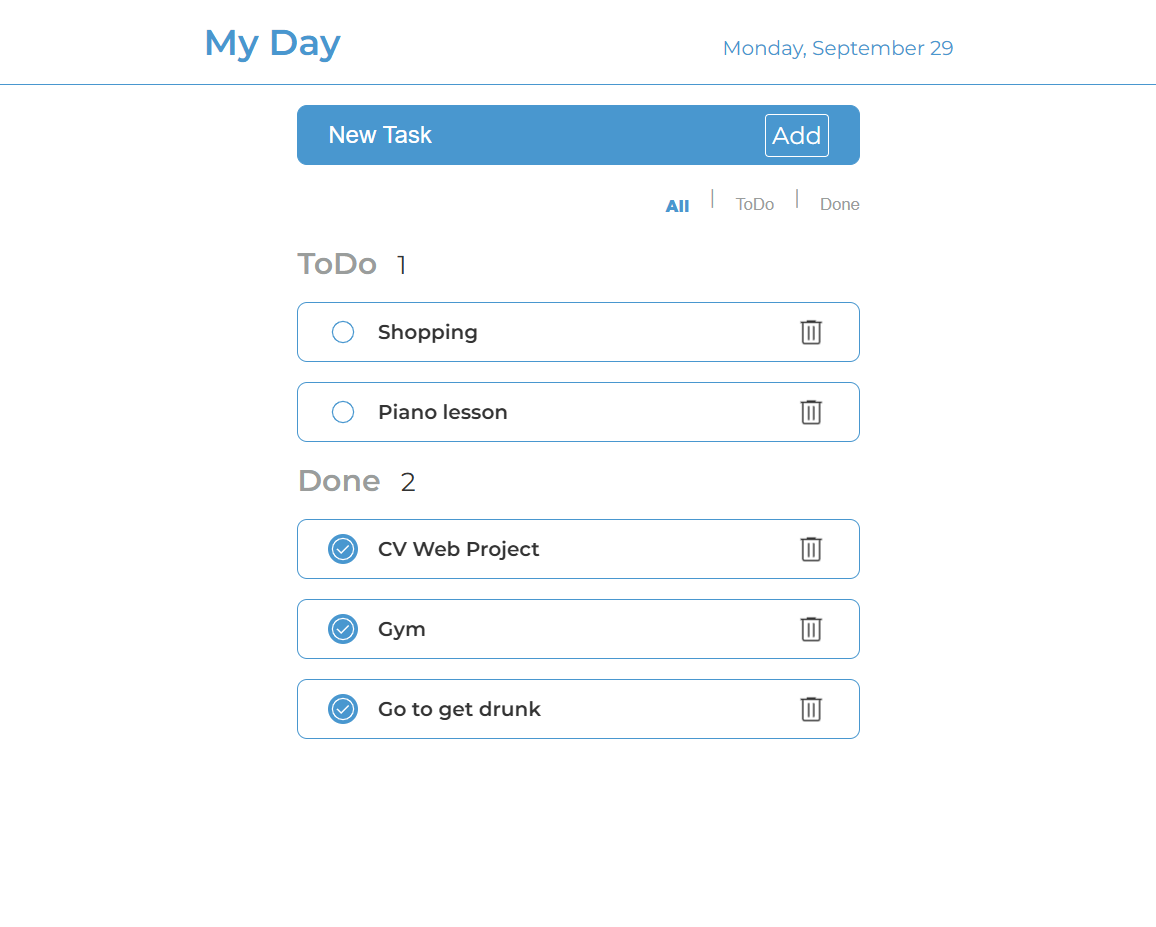
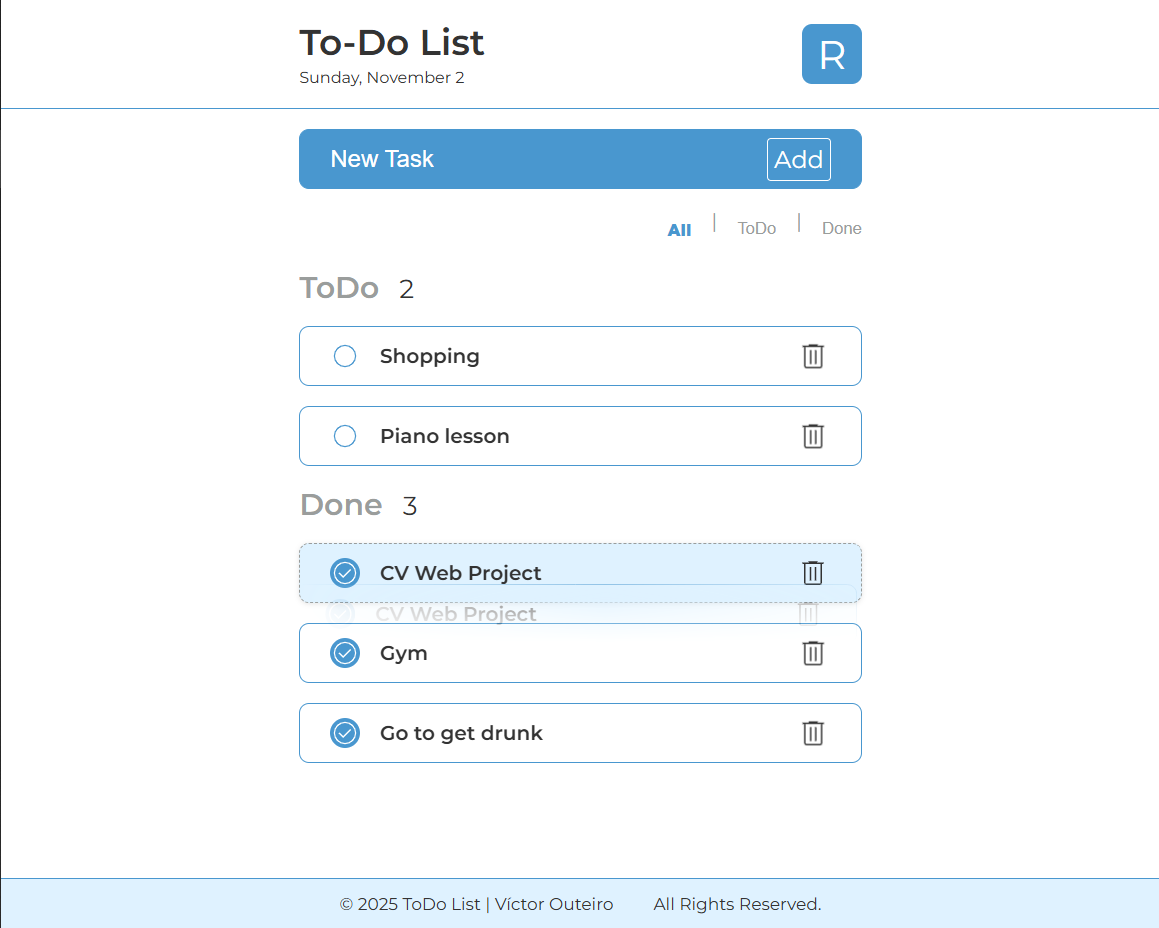
update/todo list

Changed region(s): [[0.2491, 0.2718, 0.7474, 0.8155], [0.0, 0.9364, 1.0, 1.0], [0.1557, 0.0, 0.8408, 0.2718]]

diff --git a/index.html b/index.html
@@ -419,14 +419,17 @@
           </a>
           <div class="project-content">
             <p class="project-desc">
-              Aplicación To-Do minimalista con JavaScript puro que permite
-              crear, filtrar, completar y eliminar tareas. Incluye persistencia
-              en localStorage, diseño responsive y animaciones suaves.
+              Aplicación Full-stack con autenticación de usuarios que permite
+              crear, filtrar, completar, eliminar tareas y ordenarlas con drag and drop.
             </p>
             <div class="project-tech">
-              <span class="tech">HTML</span>
-              <span class="tech">CSS</span>
               <span class="tech">JavaScript</span>
+              <span class="tech">Sortable</span>
+              <span class="tech">Google Identity</span>
+              <span class="tech">JWT</span>
+              <span class="tech">Node.js</span>
+              <span class="tech">Express</span>
+              <span class="tech">MongoDB</span>
             </div>
           </div>
         </article>
